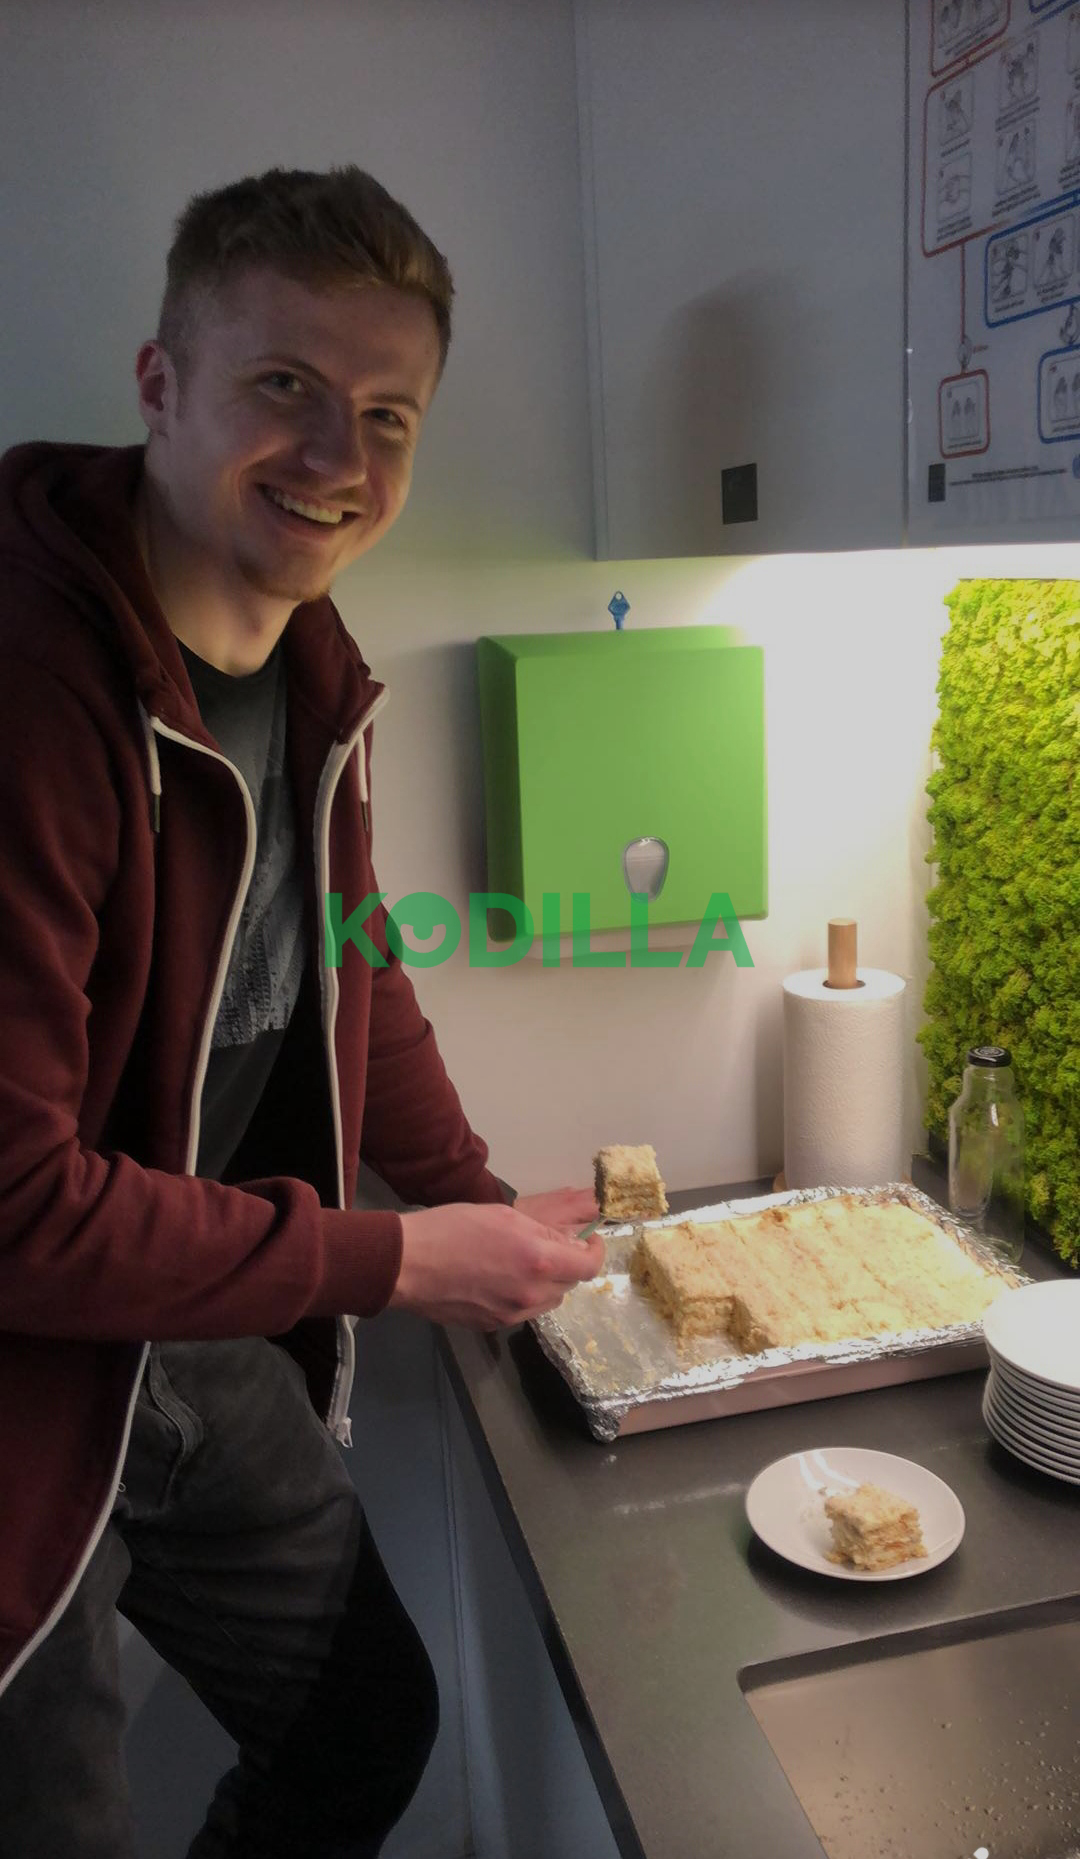
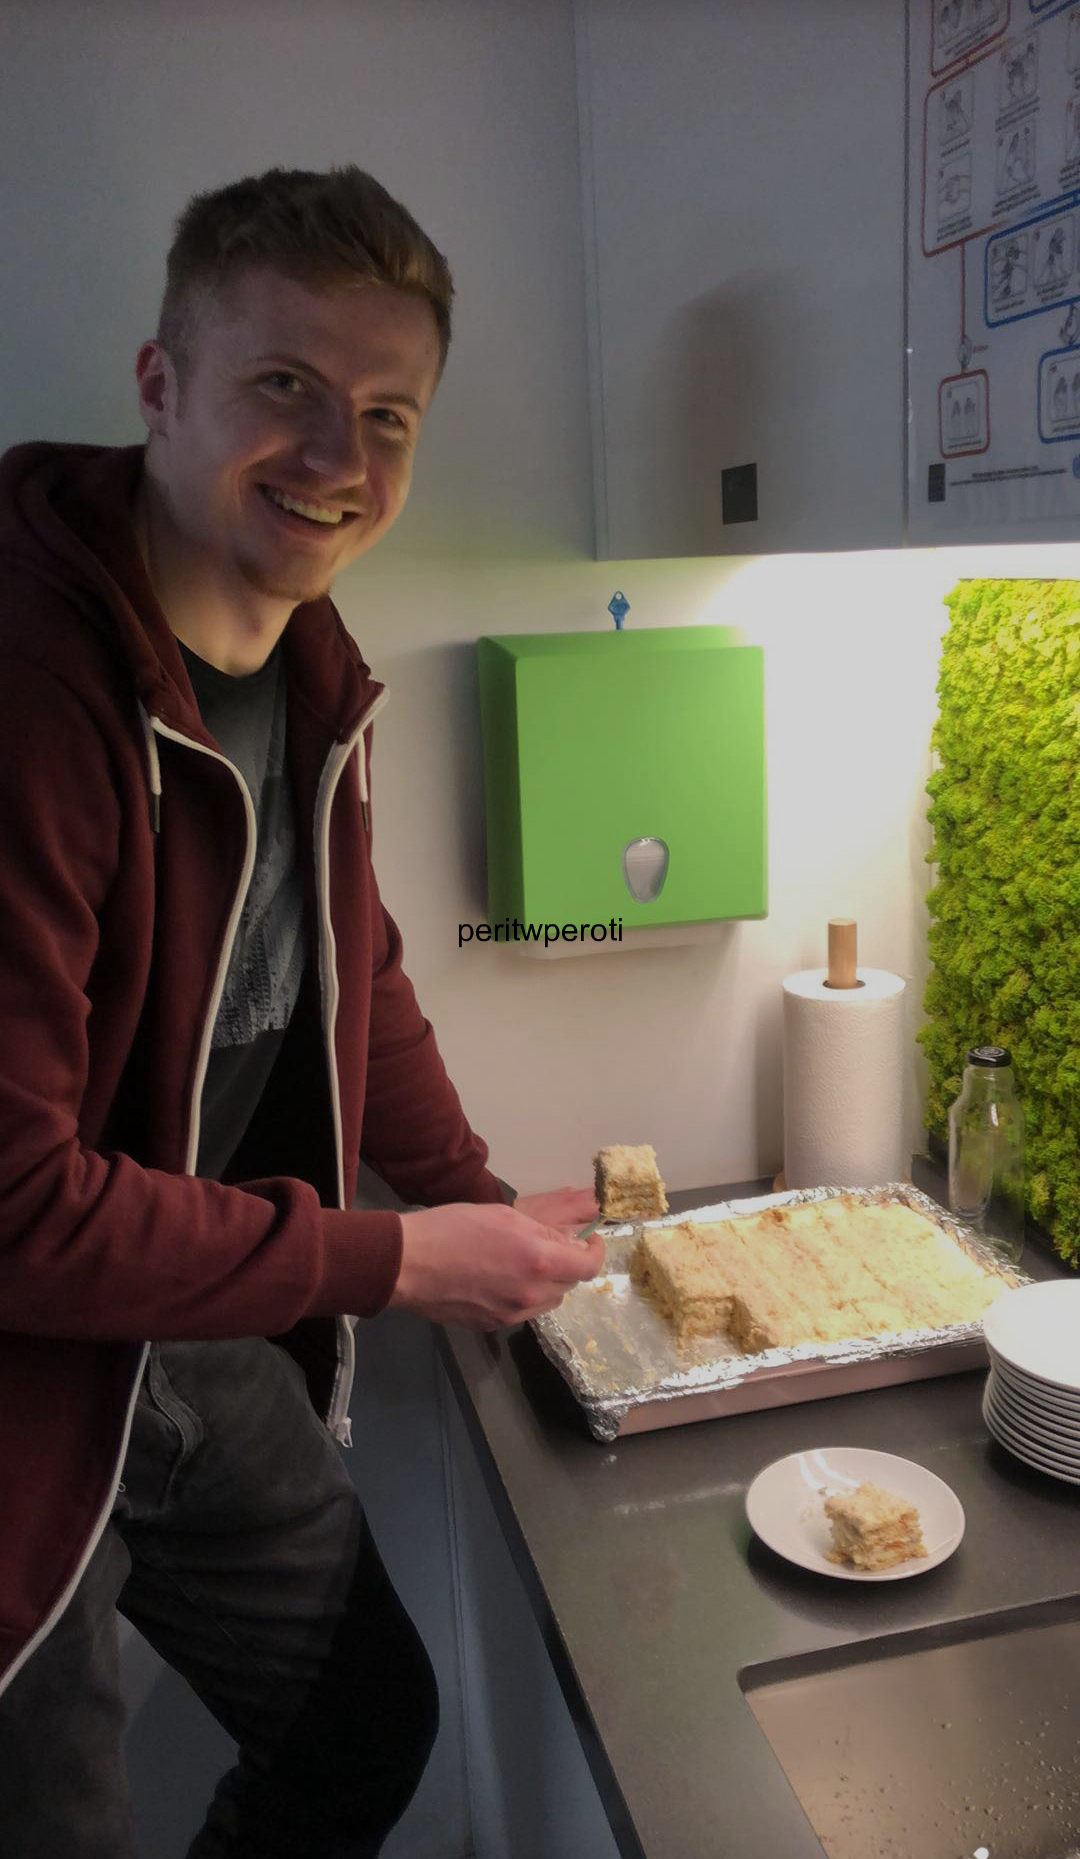
Exercise

Changed region(s): [[0.275, 0.468, 0.7028, 0.5304]]

diff --git a/add-watermark-project/app.js b/add-watermark-project/app.js
@@ -1,29 +1,42 @@
 const Jimp = require('jimp');
 const inquirer = require('inquirer');
+const fs = require('fs');
 
 const addTextWatermarkToImage = async function(inputFile, outputFile, text) {
-  const image = await Jimp.read(inputFile);
-  const font = await Jimp.loadFont(Jimp.FONT_SANS_32_BLACK);
-  const textData = {
-    text,
-    alignmentX: Jimp.HORIZONTAL_ALIGN_CENTER,
-    alignmentY: Jimp.VERTICAL_ALIGN_MIDDLE,
-  };
-  image.print(font, 0, 0, textData, image.getWidth(), image.getHeight());
-  await image.quality(100).writeAsync(outputFile);
+  try {
+    const image = await Jimp.read(inputFile);
+    const font = await Jimp.loadFont(Jimp.FONT_SANS_32_BLACK);
+    const textData = {
+      text,
+      alignmentX: Jimp.HORIZONTAL_ALIGN_CENTER,
+      alignmentY: Jimp.VERTICAL_ALIGN_MIDDLE,
+    };
+    image.print(font, 0, 0, textData, image.getWidth(), image.getHeight());
+    await image.quality(100).writeAsync(outputFile);
+    console.log('Successfully image with watermark created');
+  } catch(error) {
+    console.log('Something went wrong... Try again!');
+  }
+  startApp();
 };
 
 const addImageWatermarkToImage = async function(inputFile, outputFile, watermarkFile) {
-  const image = await Jimp.read(inputFile);
-  const watermark = await Jimp.read(watermarkFile);
-  const x = image.getWidth() / 2 - watermark.getWidth() / 2;
-  const y = image.getHeight() / 2 - watermark.getHeight() / 2;
+  try {
+    const image = await Jimp.read(inputFile);
+    const watermark = await Jimp.read(watermarkFile);
+    const x = image.getWidth() / 2 - watermark.getWidth() / 2;
+    const y = image.getHeight() / 2 - watermark.getHeight() / 2;
 
-  image.composite(watermark, x, y, {
-    mode: Jimp.BLEND_SOURCE_OVER,
-    opacitySource: 0.5,
-  });
-  await image.quality(100).writeAsync(outputFile);
+    image.composite(watermark, x, y, {
+      mode: Jimp.BLEND_SOURCE_OVER,
+      opacitySource: 0.5,
+    });
+    await image.quality(100).writeAsync(outputFile);
+    console.log('Successfully image with watermark created');
+  } catch(error) {
+    console.log('Something went wrong... Try again!');
+  }
+  startApp();
 };
 
 const prepareOutputFilename = (filename) => {
@@ -62,7 +75,10 @@ const startApp = async () => {
       message: 'Type your watermark text:',
     }]);
     options.watermarkText = text.value;
-    addTextWatermarkToImage('./img/' + options.inputImage, './img/' + prepareOutputFilename(options.inputImage), options.watermarkText);
+    if (fs.existsSync('./img/'+options.inputImage))
+      addTextWatermarkToImage('./img/' + options.inputImage, './img/' + prepareOutputFilename(options.inputImage), options.watermarkText);
+    else
+      console.log('Something went wrong... Try again');
   }
   else {
     const image = await inquirer.prompt([{
@@ -72,7 +88,10 @@ const startApp = async () => {
       default: 'logo.png',
     }])
     options.watermarkImage = image.filename;
-    addImageWatermarkToImage('./img/' + options.inputImage, './img/' + prepareOutputFilename(options.inputImage), './img/' + options.watermarkImage);
+    if (fs.existsSync('./img/'+options.inputImage) && fs.existsSync('./img/'+options.watermarkImage))
+      addImageWatermarkToImage('./img/' + options.inputImage, './img/' + prepareOutputFilename(options.inputImage), './img/' + options.watermarkImage);
+    else
+      console.log('Something went wrong... Try again');
   }
 }
 
